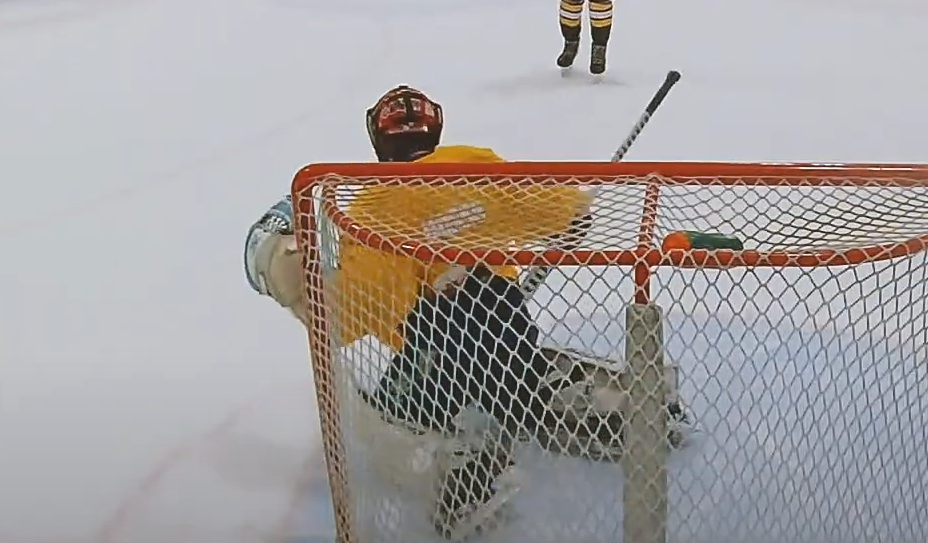
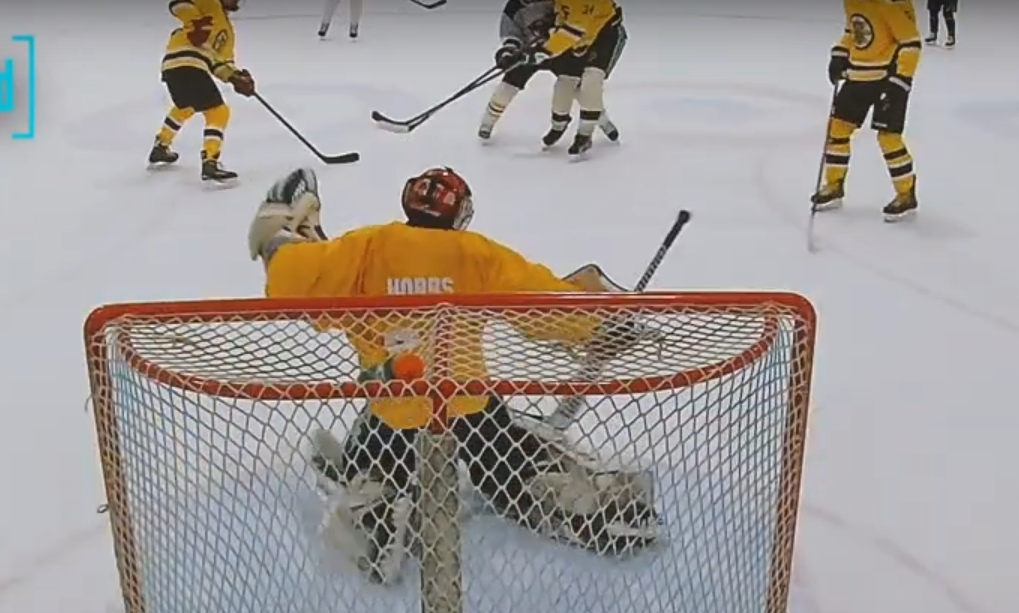
Video updates 11/1

diff --git a/src/app/home/components/featured-content/featured-content.component.ts b/src/app/home/components/featured-content/featured-content.component.ts
@@ -11,6 +11,6 @@ export class FeaturedContentComponent {
 
   constructor(domSanitizer: DomSanitizer) {
     // this.videoUrl = domSanitizer.bypassSecurityTrustResourceUrl('https://www.youtube.com/embed/CYPNYEfMceg?autoplay=0');
-    this.videoUrl = domSanitizer.bypassSecurityTrustResourceUrl("https://www.youtube.com/embed/Zrz6t59Njbk");
+    this.videoUrl = domSanitizer.bypassSecurityTrustResourceUrl("https://www.youtube.com/embed/7IXa_gqAzrY");
   }
 }

diff --git a/src/app/videos/components/videos-list/videos-list.component.ts b/src/app/videos/components/videos-list/videos-list.component.ts
@@ -9,6 +9,8 @@ import { DomSanitizer, SafeUrl } from '@angular/platform-browser';
 export class VideosListComponent {
   
   videoUrls = [ //Newest at the top!
+    "https://www.youtube.com/embed/7IXa_gqAzrY",
+    "https://www.youtube.com/embed/a9SR4djsdM4",
     "https://www.youtube.com/embed/Zrz6t59Njbk",
     "https://www.youtube.com/embed/9ynkFlyZkOA",
     "https://www.youtube.com/embed/yr_6vEwIAU0",

diff --git a/src/app/home/components/secondary-content/secondary-content.component.ts b/src/app/home/components/secondary-content/secondary-content.component.ts
@@ -19,6 +19,7 @@ export class SecondaryContentComponent {
       title: '11/1 - Hobbs Robs Outlaws',
       description: 'Pineapples serve up a sweet victory over outlaws - win 3-0',
       image: 'assets/images/hobbs_shutout.png',
+      link: "https://www.youtube.com/watch?v=a9SR4djsdM4"
     },
     {
       title: '10/30 - T-t-t-t-t-tie game!',
